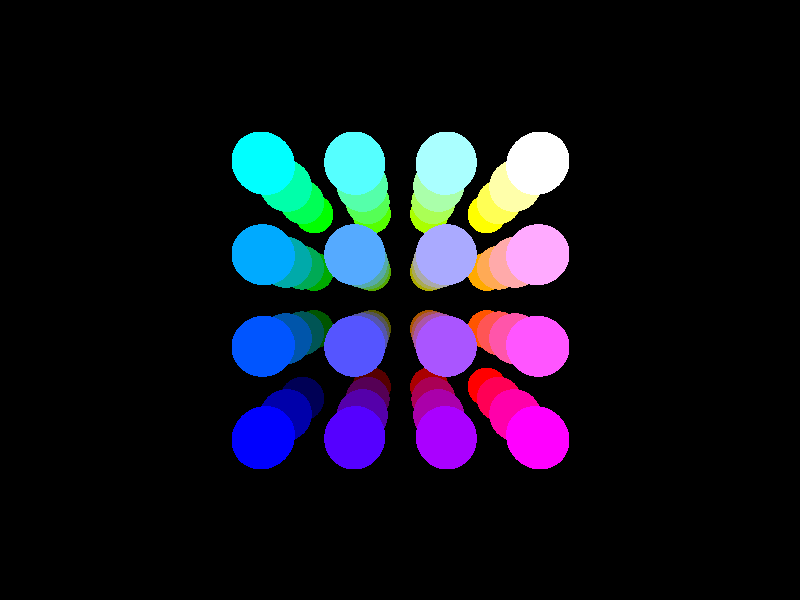
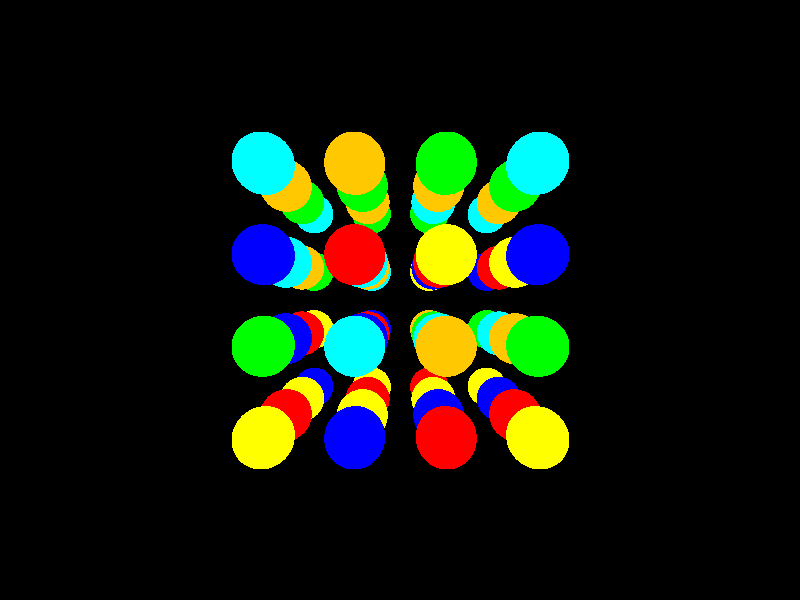
Hecho la variacion de color. TODO: 	cambiar el modo ordered getNextColor() a una clase o enum thread safety. 	Cambia las constantes a segun correspondan 	Sincronizar la lista de objetos o si es random setear los colores antes y listo

Changed region(s): [[0.2812, 0.21, 0.7188, 0.78]]

diff --git a/cg_tpe1/src/main/java/ar/edu/itba/cg/tpe1/rayCaster/RayCasterThread.java b/cg_tpe1/src/main/java/ar/edu/itba/cg/tpe1/rayCaster/RayCasterThread.java
@@ -4,6 +4,7 @@ import java.awt.Color;
 import java.awt.Rectangle;
 import java.util.ArrayList;
 import java.util.List;
+import java.util.Random;
 import java.util.concurrent.BrokenBarrierException;
 import java.util.concurrent.CyclicBarrier;
 
@@ -17,13 +18,6 @@ import ar.edu.itba.cg.tpe1.geometry.Ray;
  */
 class RayCasterThread extends Thread {
 
-	//TODO: pasarlo a los enums
-	public final int COLOR_MODE_RANDOM = 0;
-	public final int COLOR_MODE_ORDERED = 1;
-	//TODO: pasarlo a los enums
-	public final int COLOR_VARIATION_LINEAR = 0;
-	public final int COLOR_VARIATION_LOG = 1;
-	
 	private Scene scene;
 	private Camera camera;
 	private int fromX;
@@ -34,13 +28,14 @@ class RayCasterThread extends Thread {
 	private int height;
 	private RayCaster rayCaster;
 	private CyclicBarrier cb;
-	private int colorMode = COLOR_MODE_RANDOM;
-	private int colorVariation = COLOR_VARIATION_LINEAR;
+	private int colorMode = RayCaster.COLOR_MODE_ORDERED;
+	private int colorVariation = RayCaster.COLOR_VARIATION_LINEAR;
 
 	//TODO: hacer el enum...
 	static private Color nextColor = null;
 	static private int nextOne = 0;
 	
+	static Random rnd = new Random();
 	
 	/**
 	 * Constructor for RayCasterThread class
@@ -164,7 +159,7 @@ class RayCasterThread extends Thread {
 			}
 
 			List<Primitive> viewedObjects = new ArrayList<Primitive>();
-			
+			Primitive primitive = null;
 			Point3d origin = camera.getOrigin();
 			Point3d intersection = null, aux = null;
 			Color color;
@@ -182,20 +177,35 @@ class RayCasterThread extends Thread {
 					// There is no intersection yet
 					intersection = null;
 					
+					// There is no primitive intersection
+					primitive = null;
+					
 					// Find intersection in scene with ray
 					for (Primitive p : scene.getList()) {
 						aux = p.intersect(ray);
 						if (aux != null && (intersection == null || (intersection != null &&
 							aux.distance(origin) < intersection.distance(origin)))) {
 							intersection = aux;
-							color = adjustColor(p.getColor(aux), intersection.distance(origin));
+							primitive = p;
 						}
 					}
 
-					if (colorMode == COLOR_MODE_ORDERED) {
+					if (primitive != null) {
 						// Check if this is the first time we see this object
-						// Add it to the list and set the next color in the list
-						// else get the color from the object and use it
+						if (viewedObjects.contains(primitive) == false) {
+							// Add it to the list and set the color
+							viewedObjects.add(primitive);
+							// ColorMode?
+							if (colorMode == RayCaster.COLOR_MODE_ORDERED) {
+								// ColorMode -> ORDERED
+								primitive.setColor(getNextColor());
+							} else { 
+								// ColorMode -> RANDOM
+								primitive.setColor(getRandomColor());
+							}
+						}
+						// Get the color to be painted
+						color = adjustColor(primitive.getColor(intersection), intersection.distance(origin));
 					}
 					
 					// Set color to image(i, j)
@@ -233,9 +243,8 @@ class RayCasterThread extends Thread {
     	return color;
     }
 	
-    Color getNextColor() {
-    	
-    	//TODO: crear un iterador o un enum para los colores
+    private Color getNextColor() {
+    	//TODO: crear un iterador o un enum para los colores thread safety ;)
     	switch (nextOne) {
     	case 0:
     		// Violet
@@ -269,6 +278,10 @@ class RayCasterThread extends Thread {
     		nextOne = 0;
     	
     	return nextColor;
+    }
+    
+    private Color getRandomColor() {
+    	return new Color(rnd.nextFloat(), rnd.nextFloat(), rnd.nextFloat());
     }
     
 }

diff --git a/cg_tpe1/src/main/java/ar/edu/itba/cg/tpe1/App.java b/cg_tpe1/src/main/java/ar/edu/itba/cg/tpe1/App.java
@@ -24,8 +24,8 @@ public class App
 		String arg;
 		boolean failed = false;
 		boolean time = false;
-		boolean colorMode = false;
-		boolean colorVar = false;
+		int colorMode = RayCaster.COLOR_MODE_RANDOM;
+		int colorVar = RayCaster.COLOR_VARIATION_LINEAR;
     	String sceneName = null;
     	String fileName = null;
     	String format = "PNG";
@@ -97,9 +97,9 @@ public class App
                 if (i < args.length) {
                 	arg = args[i++];
                 	if (arg.equals("random")) {
-                		colorMode = false;
+                		colorMode = RayCaster.COLOR_MODE_RANDOM;
                 	} else if (arg.equals("ordered")) {
-	                	colorMode = true;
+	                	colorMode = RayCaster.COLOR_MODE_ORDERED;
                 	} else {
                 		System.out.println("Invalid color mode");
                 	}
@@ -112,9 +112,9 @@ public class App
                 if (i < args.length) {
                 	arg = args[i++];
                 	if (arg.equals("linear")) {
-                		colorVar = false;
+                		colorVar = RayCaster.COLOR_VARIATION_LINEAR;
                 	} else if (arg.equals("log")) {
-	                	colorVar = true;
+	                	colorVar = RayCaster.COLOR_VARIATION_LOG;
                 	} else {
                 		System.out.println("Invalid color variation");
                 	}
@@ -163,16 +163,13 @@ public class App
     	Camera camera = new Camera(new Point3d(0d, 0d, 10d), new Point3d(0d, 0d ,0d), new Point3d(0d, 10d ,10d), 65, width, height);
     	
     	// Create rayCaster
-    	RayCaster raycaster = new RayCaster(scene, camera, 4);
-    	
-    	// Set color variation for primitives
-    	if (colorVar == true) {
-    		//TODO: Log
-    	}
+    	RayCaster raycaster = null;
     	
     	// Set colors for primitives
-    	if (colorMode == true) {
-    		//TODO: Ordered
+    	if (colorMode == RayCaster.COLOR_MODE_ORDERED) {
+    		raycaster = new RayCaster(scene, camera, 1, colorMode, colorVar);
+    	} else {
+    		raycaster = new RayCaster(scene, camera, 4, colorMode, colorVar);
     	}
     	
     	// Take start time

diff --git a/cg_tpe1/src/main/java/ar/edu/itba/cg/tpe1/rayCaster/RayCaster.java b/cg_tpe1/src/main/java/ar/edu/itba/cg/tpe1/rayCaster/RayCaster.java
@@ -14,6 +14,13 @@ import ar.edu.itba.cg.tpe1.rayCaster.ImagePartitioners.HorizontalImagePartitione
  */
 public class RayCaster {
 
+	//TODO: pasarlo a los enums
+	public static final int COLOR_MODE_RANDOM = 0;
+	public static final int COLOR_MODE_ORDERED = 1;
+	//TODO: pasarlo a los enums
+	public static final int COLOR_VARIATION_LINEAR = 0;
+	public static final int COLOR_VARIATION_LOG = 1;
+	
 	private List<RayCasterThread> threads;
 	protected BufferedImage image = null;
 	private CyclicBarrier cb;
@@ -24,12 +31,17 @@ public class RayCaster {
 	 * 
 	 * @param scene Scene representation to work with
 	 * @param camera Actual camera where the viewer is   
+	 * @param numThreads Number of threads to use
+	 * @param colorMode Color mode: Random or Ordered
+	 * @param colorVariation Color variation type: Linear or Log
 	 */
-	public RayCaster(Scene scene, Camera camera, int numThreads) {
+	public RayCaster(Scene scene, Camera camera, int numThreads, int colorMode, int colorVariation) {
 		cb = new CyclicBarrier(numThreads+1);
 		threads = new ArrayList<RayCasterThread>(numThreads);
 		for (int i=0; i < numThreads; i++){
 			RayCasterThread rayCasterThread = new RayCasterThread(scene, camera, this, cb);
+			rayCasterThread.setColorMode(colorMode);
+			rayCasterThread.setColorVariation(colorVariation);
 			rayCasterThread.start();
 			threads.add(rayCasterThread);
 		}

diff --git a/cg_tpe1/src/main/java/ar/edu/itba/cg/tpe1/rayCaster/Camera.java b/cg_tpe1/src/main/java/ar/edu/itba/cg/tpe1/rayCaster/Camera.java
@@ -17,10 +17,6 @@ public class Camera {
 	private double fov;
 	private Vector3d du;
 	private Vector3d dv;
-	private int width = 0;
-	private int height = 0;
-	private int xTranslation = 0;
-	private int yTranslation = 0;
 	
 	/**
 	 * Constructor for the Camera representation
@@ -38,8 +34,6 @@ public class Camera {
 		this.direction.normalize();
 		this.upVector = new Vector3(upVector, origin);
 		this.fov = fov;
-		this.width = width;
-		this.height = height;
 		this.FieldCenter = new Vector3d();
 		this.FieldCenter.sub(this.direction, this.origin);
 		this.FieldCenter.normalize();
@@ -51,8 +45,6 @@ public class Camera {
 		this.du = new Vector3();
 		this.du.cross(this.dv, this.direction);
 		this.du.normalize();
-		this.xTranslation = 0;
-		this.yTranslation = 0;
 	}
 	
 	/**
